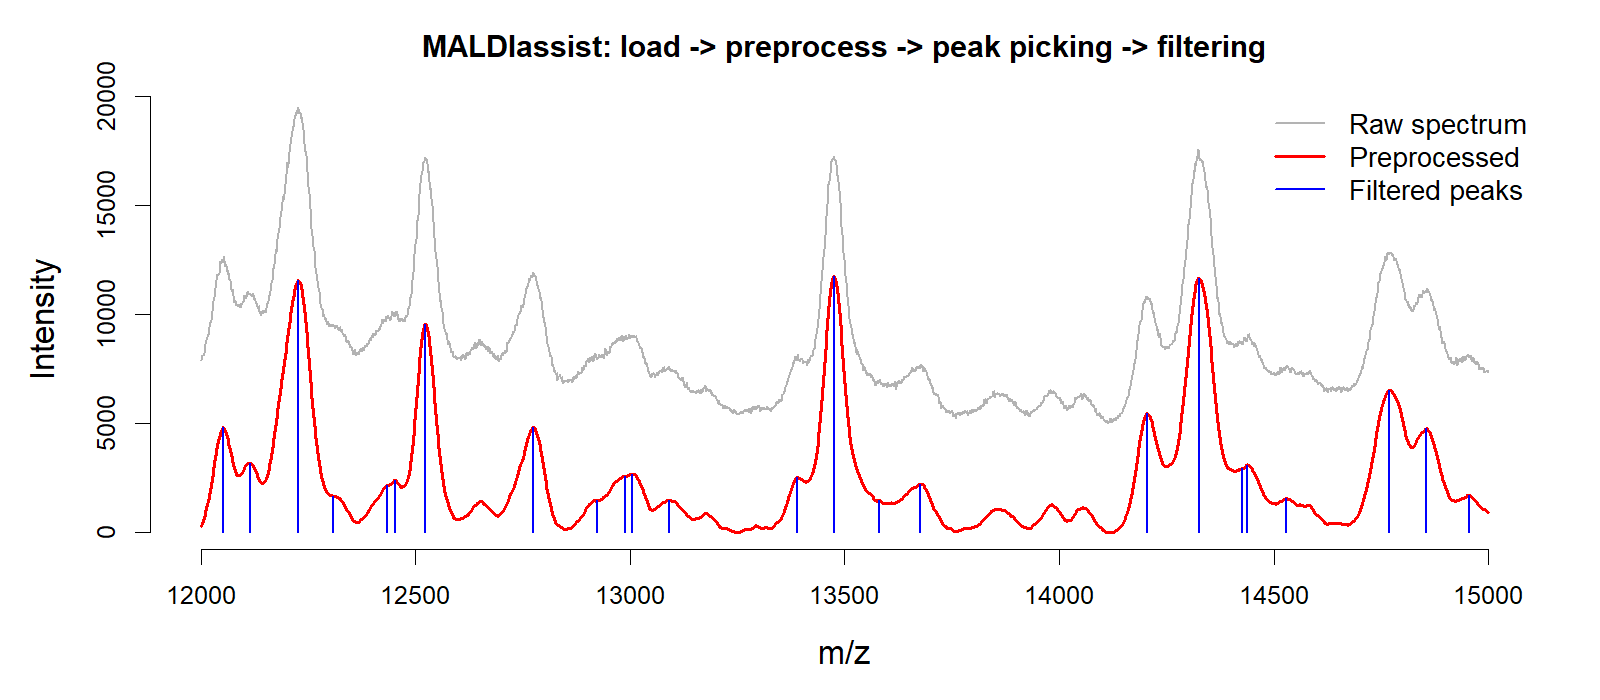
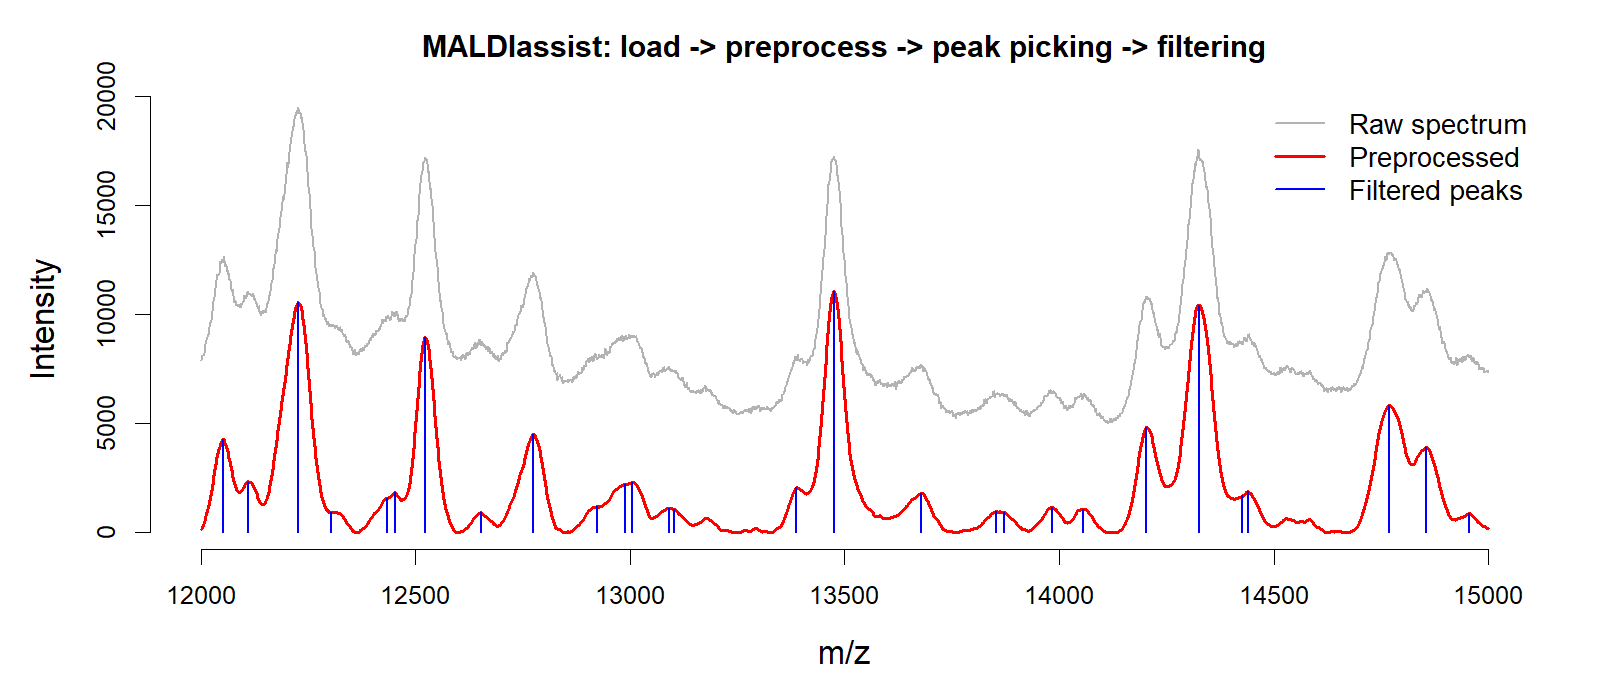
Align Quick start README parameters with cohort analysis
Use iter_snip=50, build_kde_spectra, peak_retention_fraction=0.25, and cutoff_peak_prominence=50 in the Quick start example. Regenerate README-example.png.

diff --git a/README.md b/README.md
@@ -35,7 +35,7 @@ remotes::install_github("hiows/MALDIassist")
 
 ## Quick start
 
-The pipeline follows five steps: **load → preprocess → peak picking → peak filtering → visualization**.
+The pipeline follows six steps: **load → preprocess → KDE → peak picking → peak filtering → visualization**.
 
 ```r
 library(MALDIassist)
@@ -59,8 +59,18 @@ preprocessed_spectra <- preprocess_maldi_spectra(
   hws_sg        = 10,      # half-window size for Savitzky-Golay
   pno_sg        = 3,       # polynomial order
   baseline_type = "snip",  # baseline algorithm
-  iter_snip     = 100,     # SNIP iterations
+  iter_snip     = 50,      # SNIP iterations
   n_cores       = 4
+)
+```
+
+Build Gaussian KDE spectra for peak filtering:
+
+```r
+kde_spectra <- build_kde_spectra(
+  spectra = preprocessed_spectra,
+  bw      = 1,
+  n_cores = 4
 )
 ```
 
@@ -75,6 +85,7 @@ peaks_list <- find_peaks_spectra(
   hws_peaks                  = 10,
   weight_type                = "raw",
   cutoff_kappa_peak_strength = 0.3,
+  peak_retention_fraction    = 0.25,
   n_cores                    = 4
 )
 ```
@@ -85,12 +96,13 @@ peaks_list <- find_peaks_spectra(
 
 ```r
 filtered_peaks_list <- filter_peaks_spectra(
-  spectra                = preprocessed_spectra,
+  spectra                = lapply(kde_spectra, `[[`, 1),
   peaks_list             = peaks_list,
   cutoff_peak_intensity  = 100,
-  cutoff_peak_prominence = 100,
+  cutoff_peak_prominence = 50,
   cutoff_peak_strength   = 0.5,
-  normalization_type     = "raw"
+  normalization_type     = "raw",
+  n_cores                = 4
 )
 ```
 
@@ -321,6 +333,7 @@ Archived on Zenodo: [10.5281/zenodo.21307258](https://doi.org/10.5281/zenodo.213
 
 - **Breaking:** `heatmap_matched_matrix()`: rename argument `groups` → `group` (aligns with `estimate_significance()`)
 - Update cohort-analysis README examples and regenerate heatmap figure using PXD058284-based workflow
+- Align Quick start README preprocessing/peak-picking parameters with the cohort-analysis example
 
 ### v0.1.3
 